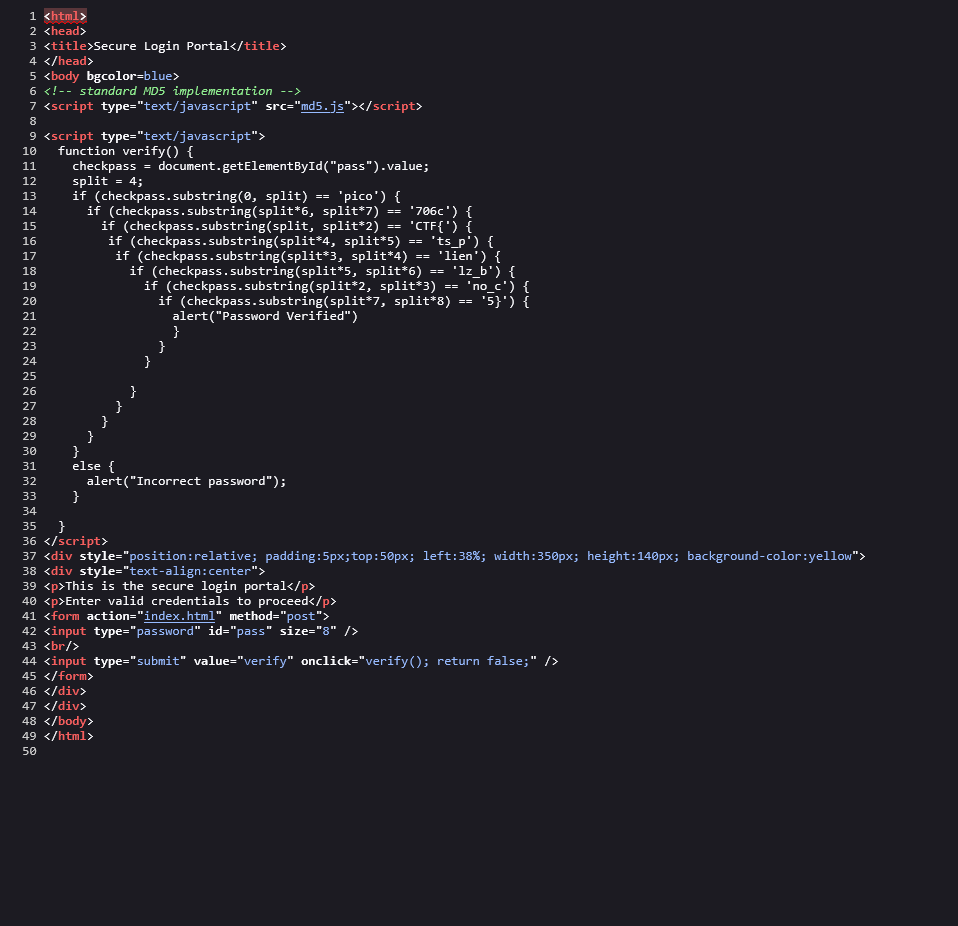
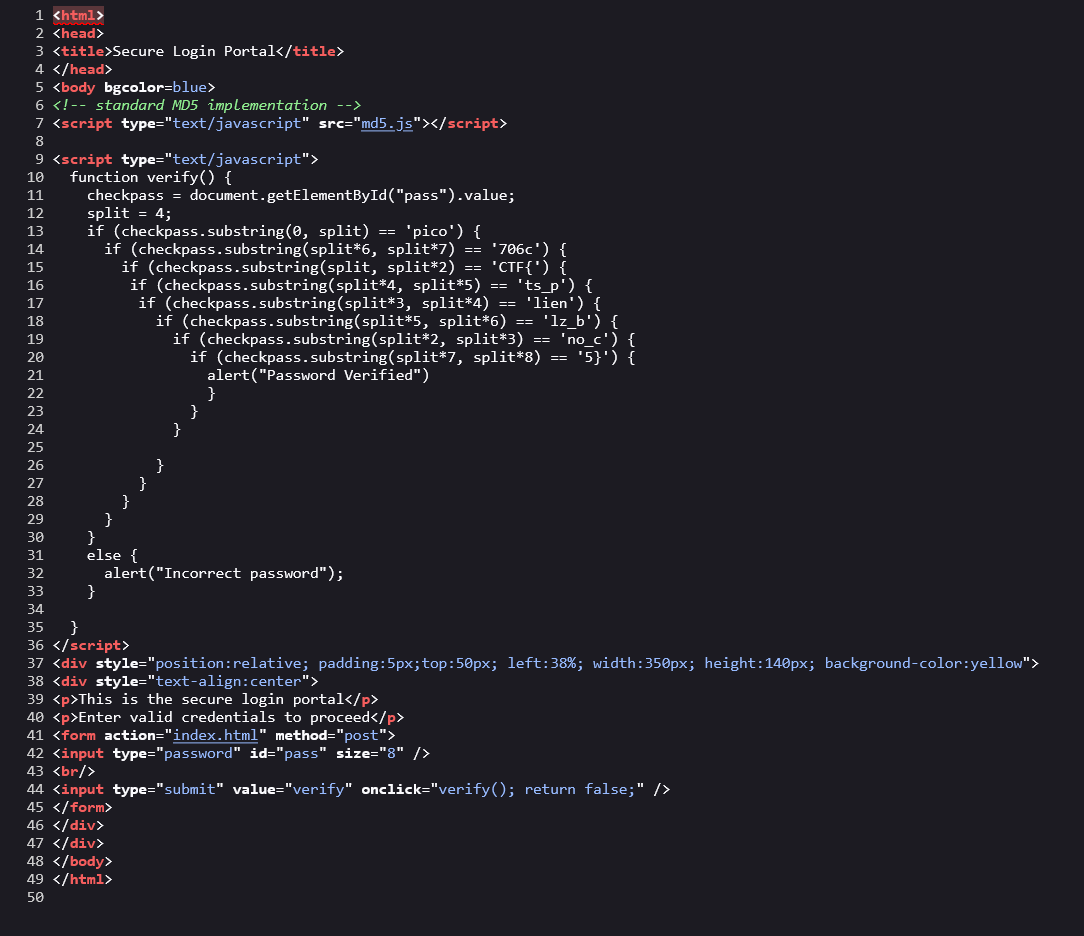
Completed

diff --git a/picoCTF/picoCTF-2019/dont-use-client-side/README.md b/picoCTF/picoCTF-2019/dont-use-client-side/README.md
@@ -6,15 +6,26 @@ Can you break into this super secure portal?
 
 ## Approach
 
-Going to the web page linked in the challenge takes us to the following page
+First I went to the target URL and saw a login page
 
-![Login Page](images/login.png)
+![Login Page](images/landing.png)
 
-Given the title I didn't even try the login I went straight to the page files because I assumed their would be client side validation for this page.
+Given the title, I decided to check for client side validation for this login page. First I opened the Page Source for the login page.
 
-![HTML Source Code](images/source.png)
+![Page Source](images/source.png)
 
-In the HTML for the page I found a JavaScript function called verify that checks the password on the login page for what appears to be the flag but in the wrong order.
+On the login page the text input is given the id `pass` and when we submit the password it calls the verify() function which is defined in the script tags.
 
-If you examine the line: ` if (checkpass.substring(split, split*2) == 'CTF{') {` We can see that it's saying the second part (starting from 0) to the third part so we can just reorder the line to get the correct order of flag which is gives us the flag if we combine them
-.
+![Verify](images/verify.png)
+
+The function basically follows this logic:
+
+1. Get value of "pass"
+2. Split value into section of four
+3. Check sections: 1,7,2,5,4,6,3,8 in that order, against hardcoded strings
+4. If all sections pass "Password Verified"
+5. Otherwise "Incorrect password"
+
+An approach to get the flag is to just reorder the hardcoded strings in the ascending order of the numbers above which should give the flag.
+
+![Flag](images/flag.png)
